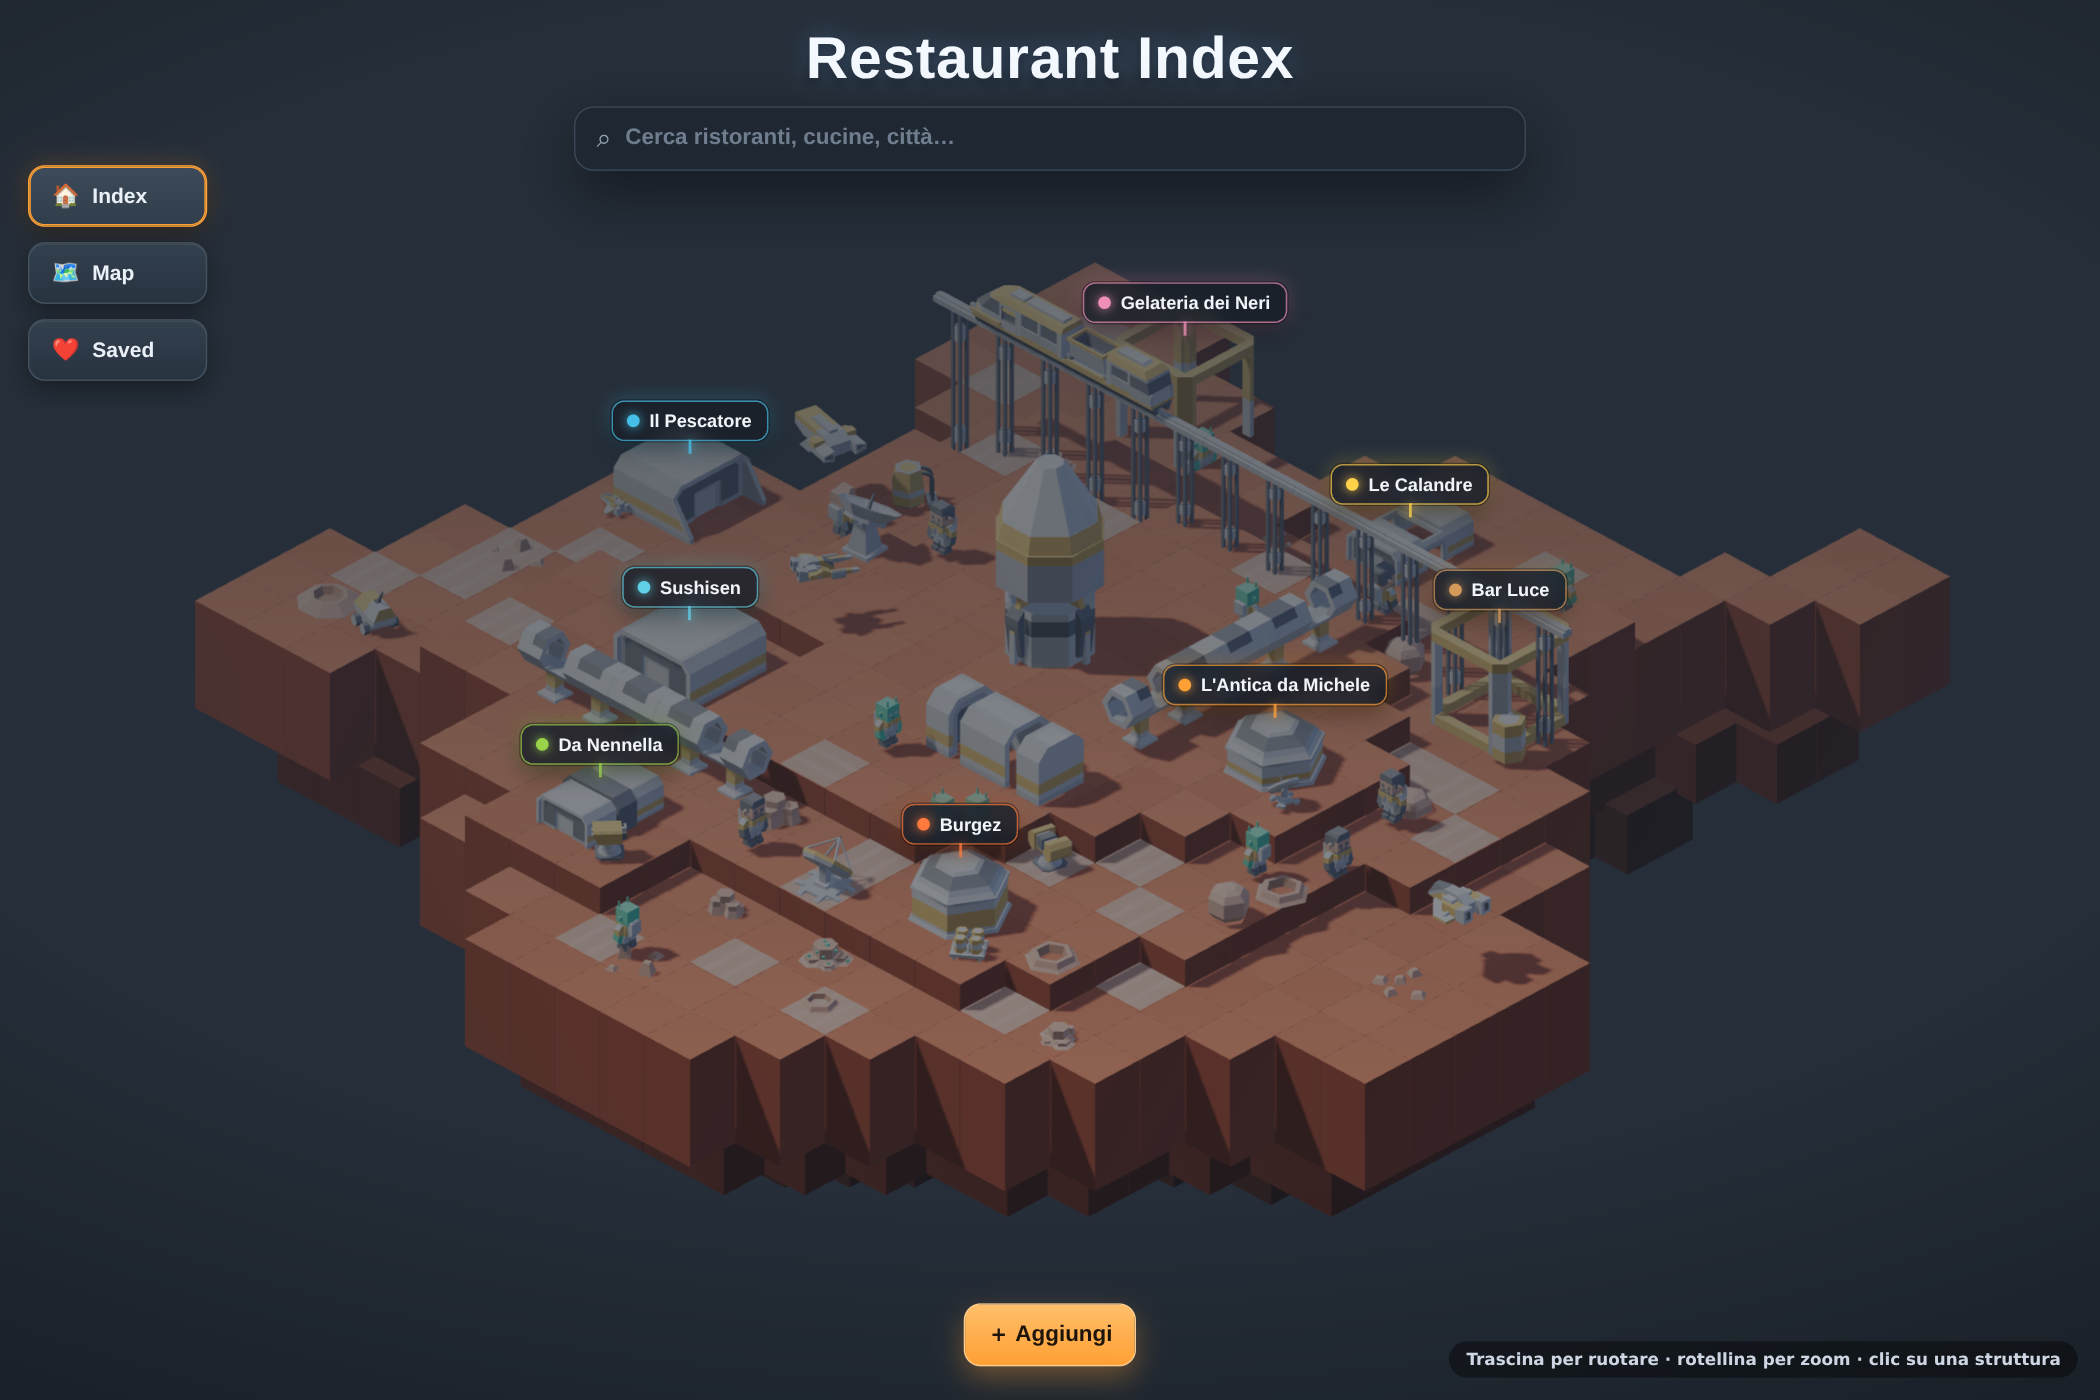
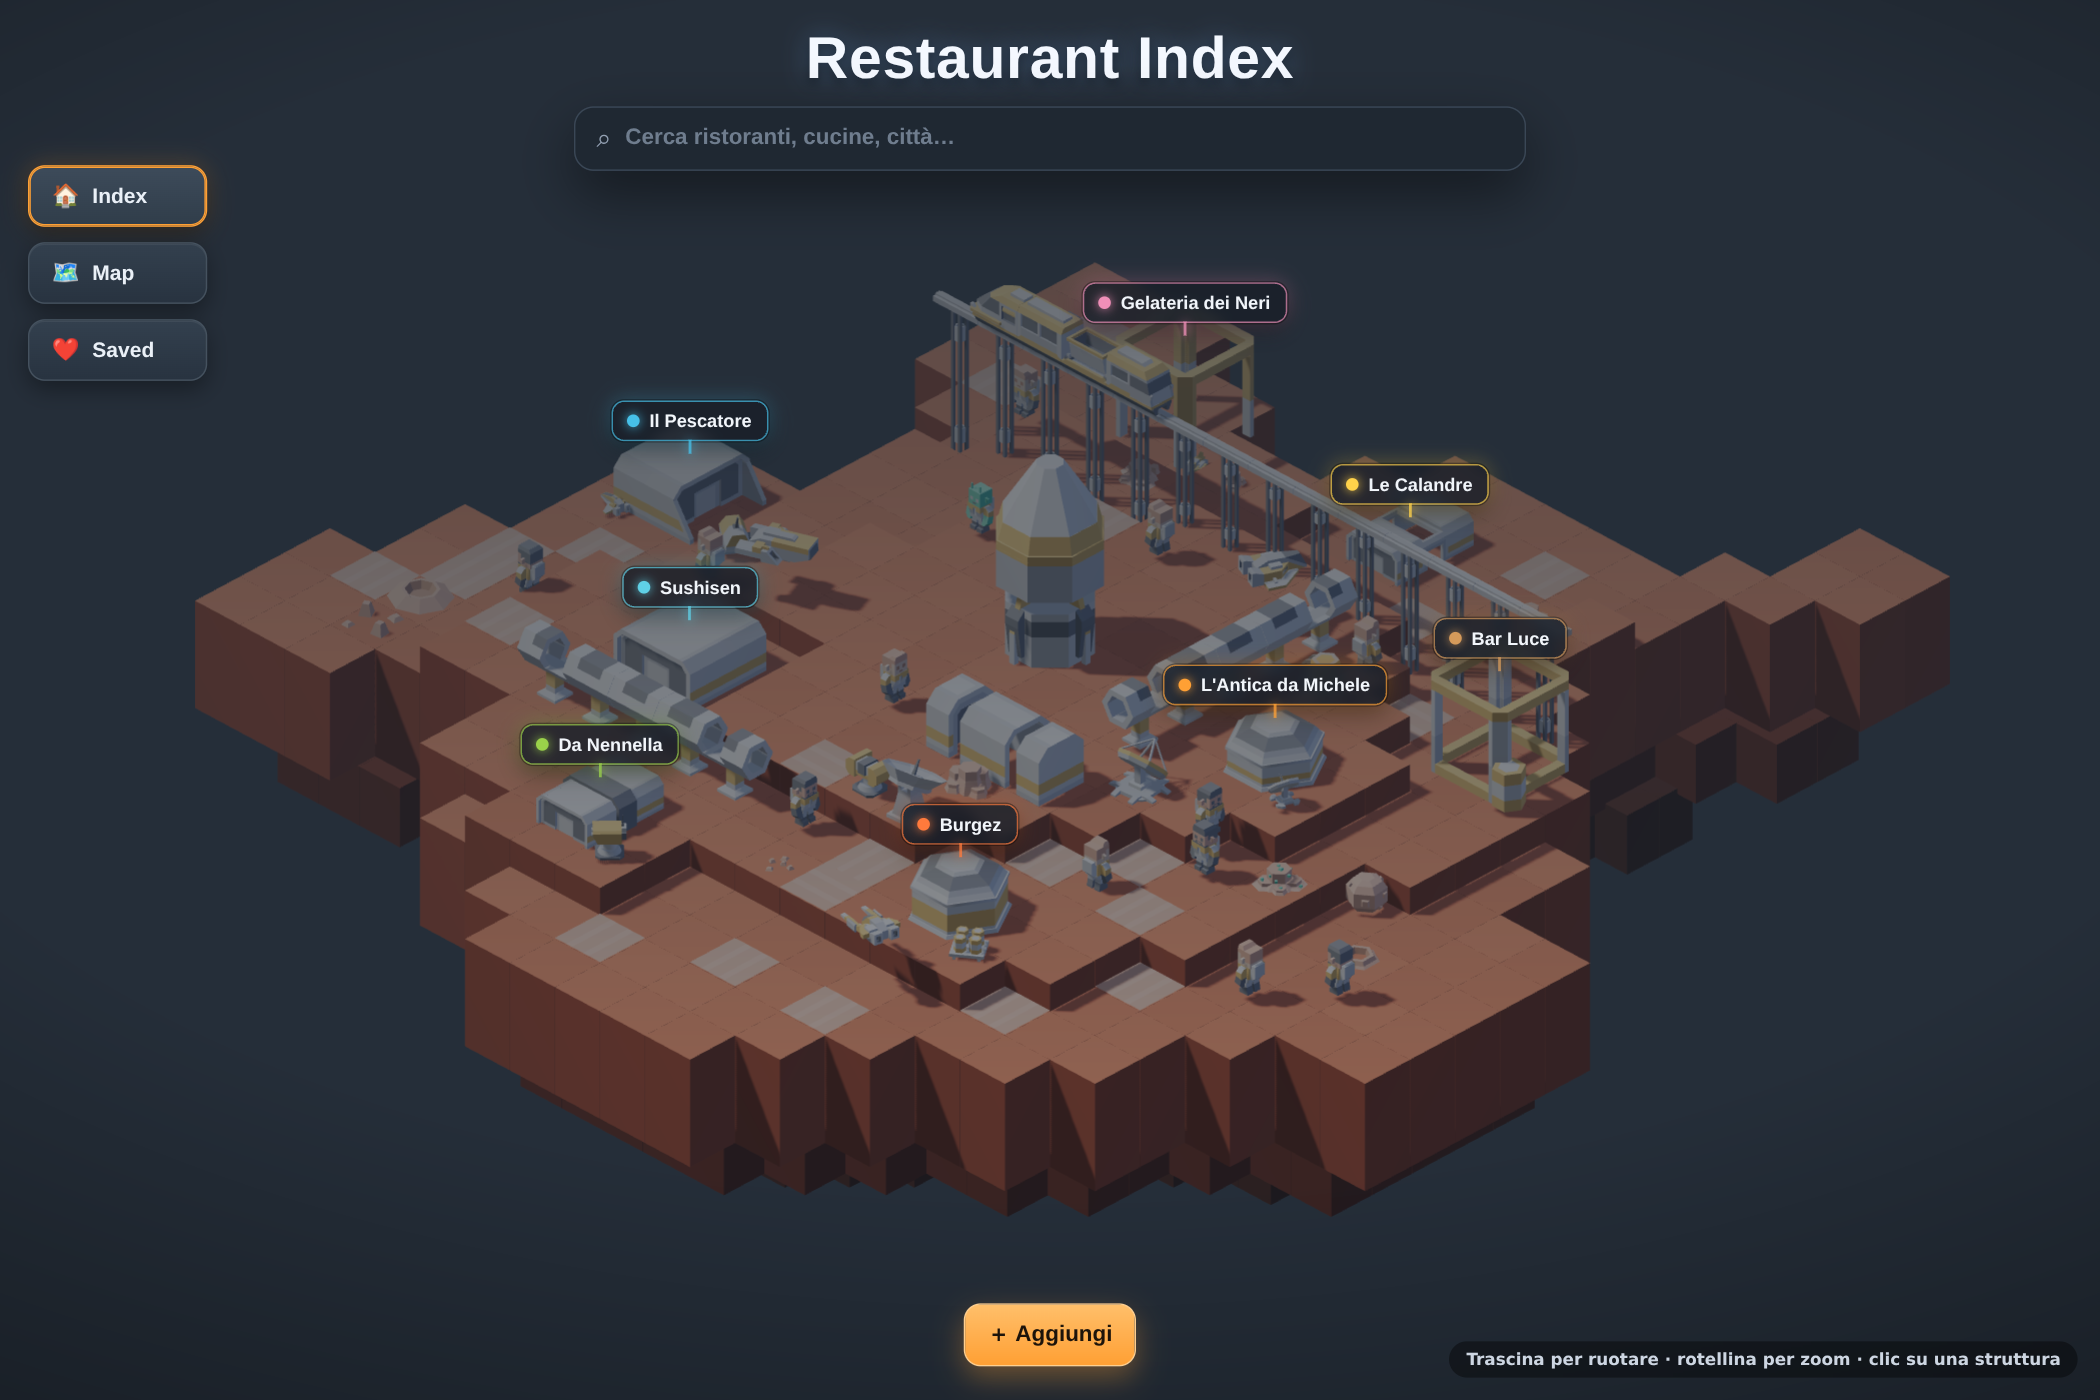
Evita compenetrazioni: sistema di occupazione delle celle
- prenota la corsia della monorotaia PRIMA di piazzare strutture/decori,
  così il tracciato ha una corsia libera e non compenetra nulla
- strade e tracciati a terra ora prenotano la loro cella (i decori non ci
  finiscono sopra)
- monorotaia divisa in prenotazione + costruzione
- astronauti: occupazione dinamica delle celle, non entrano in strutture,
  tubi o piloni e non si sovrappongono tra loro; salgono/scendono al massimo
  di una terrazza

Claude-Session: https://claude.ai/code/session_01VybF3kGRLLwZ1A5HDNyzeK

diff --git a/src/world.js b/src/world.js
@@ -35,7 +35,9 @@ export class World {
     this.buildings = [];
     this.people = [];
     this.spinners = [];   // props that rotate/bob each frame
-    this.usedCells = new Set();
+    this.usedCells = new Set();   // static occupancy (structures, rails, pipes, decor)
+    this.peopleCells = new Set(); // dynamic occupancy for wandering astronauts
+    this.monorail = null;
     this.heights = [];
   }
 
@@ -413,11 +415,24 @@ export class World {
 
   reserve(cells) { for (const [c, r] of cells) this.usedCells.add(this.key(c, r)); }
 
-  // an elevated monorail line on support pillars, with a train
-  async buildMonorail(c0, r0, dir, len) {
-    const rot = dir === 'x' ? Math.PI / 2 : 0;
+  // reserve the monorail corridor up-front so structures/decor never sit
+  // in it (prevents the rail clipping into anything)
+  reserveMonorail(c0, r0, dir, len) {
     const cells = this.lineCells(c0, r0, dir, len).filter(([c, r]) => this.isLand(c, r));
     if (cells.length < 3) return;
+    this.reserve(cells);
+    this.monorail = { cells, dir };
+  }
+
+  reserveMonorailDefault() {
+    this.reserveMonorail(3, Math.round(ROWS * 0.32), 'x', COLS - 6);
+  }
+
+  // an elevated monorail line on support pillars, with a train
+  async placeMonorail() {
+    if (!this.monorail) return;
+    const { cells, dir } = this.monorail;
+    const rot = dir === 'x' ? Math.PI / 2 : 0;
     let maxH = 0;
     for (const [c, r] of cells) maxH = Math.max(maxH, this.heightAt(c, r));
     const railY = maxH + 1.7;
@@ -508,27 +523,32 @@ export class World {
       const w = this.cellToWorld(c, r);
       const road = await this.placePiece('terrain_roadStraight', w.x, h + 0.02, w.z, rot);
       road.traverse((o) => { if (o.isMesh) o.receiveShadow = true; });
+      this.usedCells.add(this.key(c, r));
       placed++;
     }
   }
 
   async buildNetwork() {
-    // a long monorail crossing the colony
-    await this.buildMonorail(3, Math.round(ROWS * 0.32), 'x', COLS - 6);
-    // a couple of pipe runs on flat ground
+    // the monorail corridor was reserved before the buildings were placed
+    await this.placeMonorail();
+    // a couple of pipe runs on flat ground (findFlatRun avoids occupied cells)
     let run = this.findFlatRun('z', 5); if (run) await this.buildPipe(run[0], run[1], 'z', 5);
     run = this.findFlatRun('x', 5); if (run) await this.buildPipe(run[0], run[1], 'x', 5);
     // a short corridor link
     run = this.findFlatRun('x', 3); if (run) await this.buildCorridor(run[0], run[1], 'x', 3);
-    // surface tracks
-    await this.scatterRoads(26);
+    // surface tracks (reserve their cells so decor won't sit on them)
+    await this.scatterRoads(22);
   }
 
   // ---- astronauts wandering the colony ----------------------------------
   async addPeople(n) {
     const spots = this.landCells.filter(([c, r]) => this.hasMargin(c, r) && !this.usedCells.has(this.key(c, r)));
     for (let i = 0; i < n; i++) {
-      const cell = spots[Math.floor(this.rng() * spots.length)];
+      let cell = null;
+      for (let tries = 0; tries < 20 && !cell; tries++) {
+        const cand = spots[Math.floor(this.rng() * spots.length)];
+        if (cand && !this.peopleCells.has(this.key(cand[0], cand[1]))) cell = cand;
+      }
       if (!cell) break;
       const name = PEOPLE[Math.floor(this.rng() * PEOPLE.length)];
       const g = await instantiate(`space/${name}`, { targetHeight: 0.85 });
@@ -536,23 +556,35 @@ export class World {
       const w = this.cellToWorld(c, r);
       g.position.set(w.x, this.heightAt(c, r), w.z);
       this.scene.add(g);
-      this.people.push({ obj: g, c, r, t: 1, from: g.position.clone(), to: g.position.clone(), facing: 0, dur: 0.5 });
+      this.peopleCells.add(this.key(c, r));
+      this.people.push({ obj: g, c, r, t: 1, from: g.position.clone(), to: g.position.clone(), facing: 0, dur: 0.55 });
     }
+  }
+
+  // a cell an astronaut may step onto: land, not a cliff edge, not occupied
+  walkable(c, r) {
+    return this.isLand(c, r) && this.hasMargin(c, r) &&
+      !this.usedCells.has(this.key(c, r)) && !this.peopleCells.has(this.key(c, r));
   }
 
   stepPerson(pr, dt) {
     pr.t += dt / pr.dur;
     if (pr.t >= 1) {
       pr.t = 0;
-      // choose a walkable neighbour
       const dirs = [[1, 0], [-1, 0], [0, 1], [0, -1]].sort(() => this.rng() - 0.5);
       let picked = null;
       for (const [dc, dr] of dirs) {
         const nc = pr.c + dc, nr = pr.r + dr;
-        if (this.isLand(nc, nr) && this.hasMargin(nc, nr)) { picked = [nc, nr, dc, dr]; break; }
+        // don't step up/down more than one terrace, and never onto an occupied cell
+        if (this.walkable(nc, nr) && Math.abs(this.heightAt(nc, nr) - this.heightAt(pr.c, pr.r)) <= STEP) {
+          picked = [nc, nr, dc, dr]; break;
+        }
       }
-      if (!picked) { pr.t = 1; return; }
+      if (!picked) { pr.t = 1; return; } // wait a beat, then retry
       const [nc, nr, dc, dr] = picked;
+      // release the old cell, claim the new one for the whole hop
+      this.peopleCells.delete(this.key(pr.c, pr.r));
+      this.peopleCells.add(this.key(nc, nr));
       pr.from.copy(pr.obj.position);
       const w = this.cellToWorld(nc, nr);
       pr.to.set(w.x, this.heightAt(nc, nr), w.z);

diff --git a/src/main.js b/src/main.js
@@ -86,6 +86,7 @@ const restaurants = DEMO_RESTAURANTS.map((r) => ({ ...r, id: makeId() }));
 async function boot() {
   world.generateIsland();
   world.computeHeights();
+  world.reserveMonorailDefault();     // claim the rail corridor before anything else
   const cells = world.pickSpreadCells(restaurants.length);
   world.flattenAround(cells);
   world.buildTerrain();
